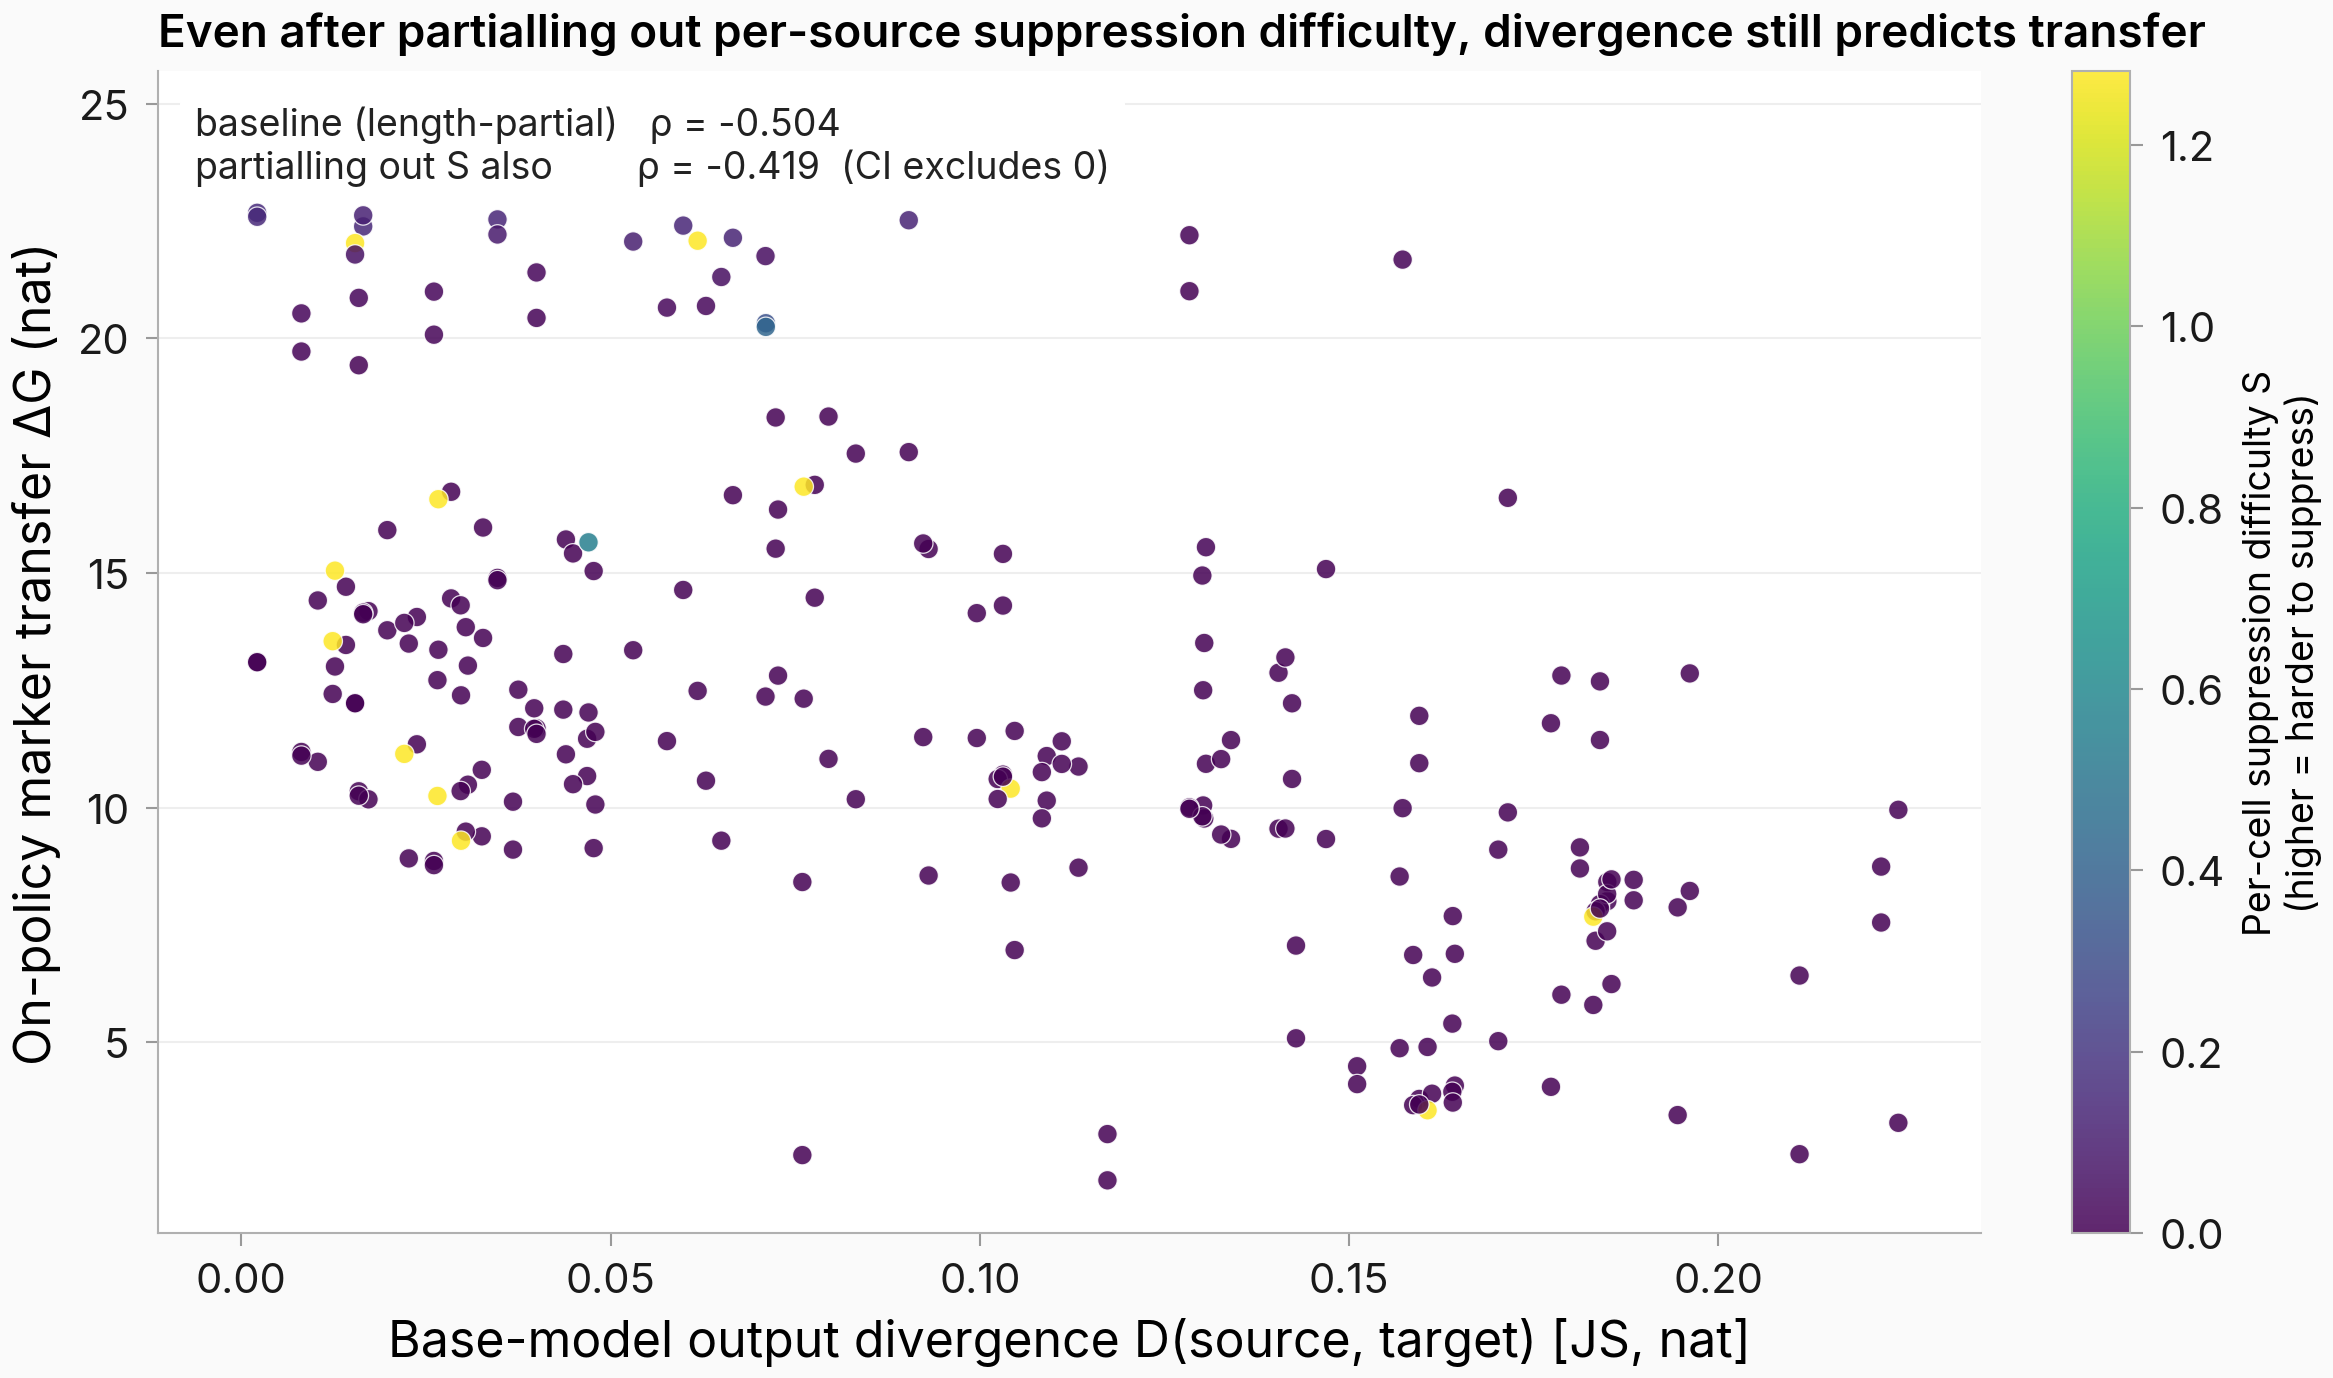
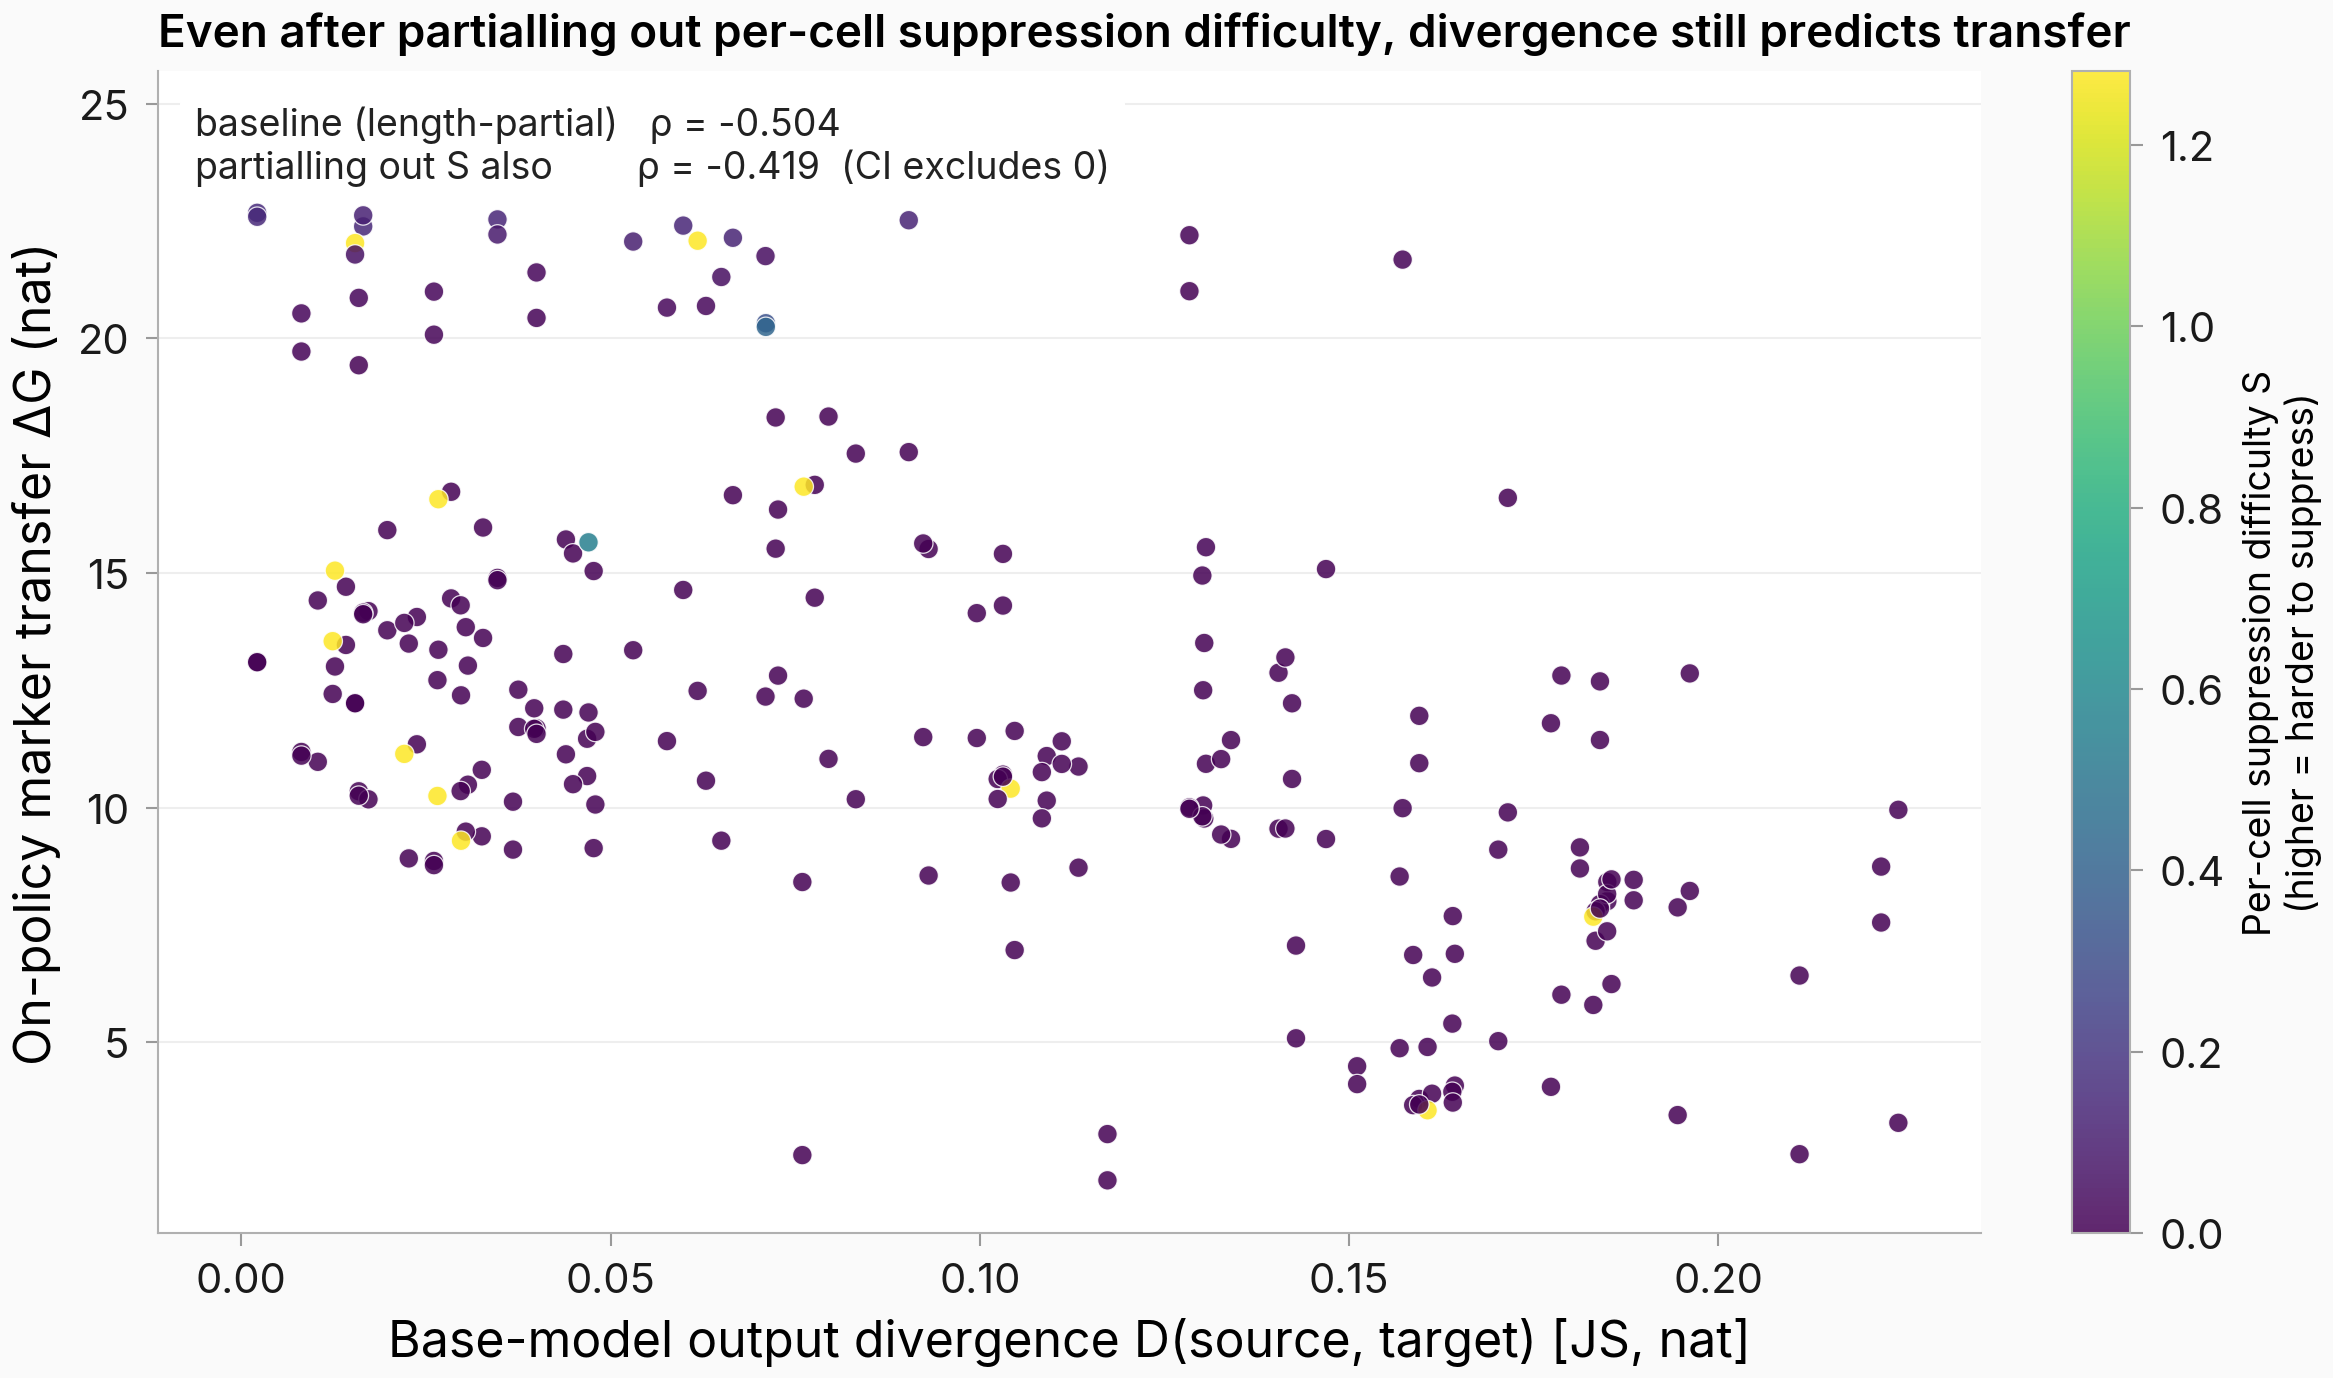
figures(#474): M5 title 'per-source' → 'per-cell' (matches keying)

Changed region(s): [[0.3395, 0.0, 0.9567, 0.0624]]

diff --git a/scripts/i474_phase6_figures.py b/scripts/i474_phase6_figures.py
@@ -308,7 +308,7 @@ def figure_m5_scatter(d: dict) -> None:
     ax.set_xlabel("Base-model output divergence D(source, target) [JS, nat]")
     ax.set_ylabel("On-policy marker transfer ΔG (nat)")
     ax.set_title(
-        "Even after partialling out per-source suppression difficulty, "
+        "Even after partialling out per-cell suppression difficulty, "
         "divergence still predicts transfer",
         loc="left",
         fontsize=11,
